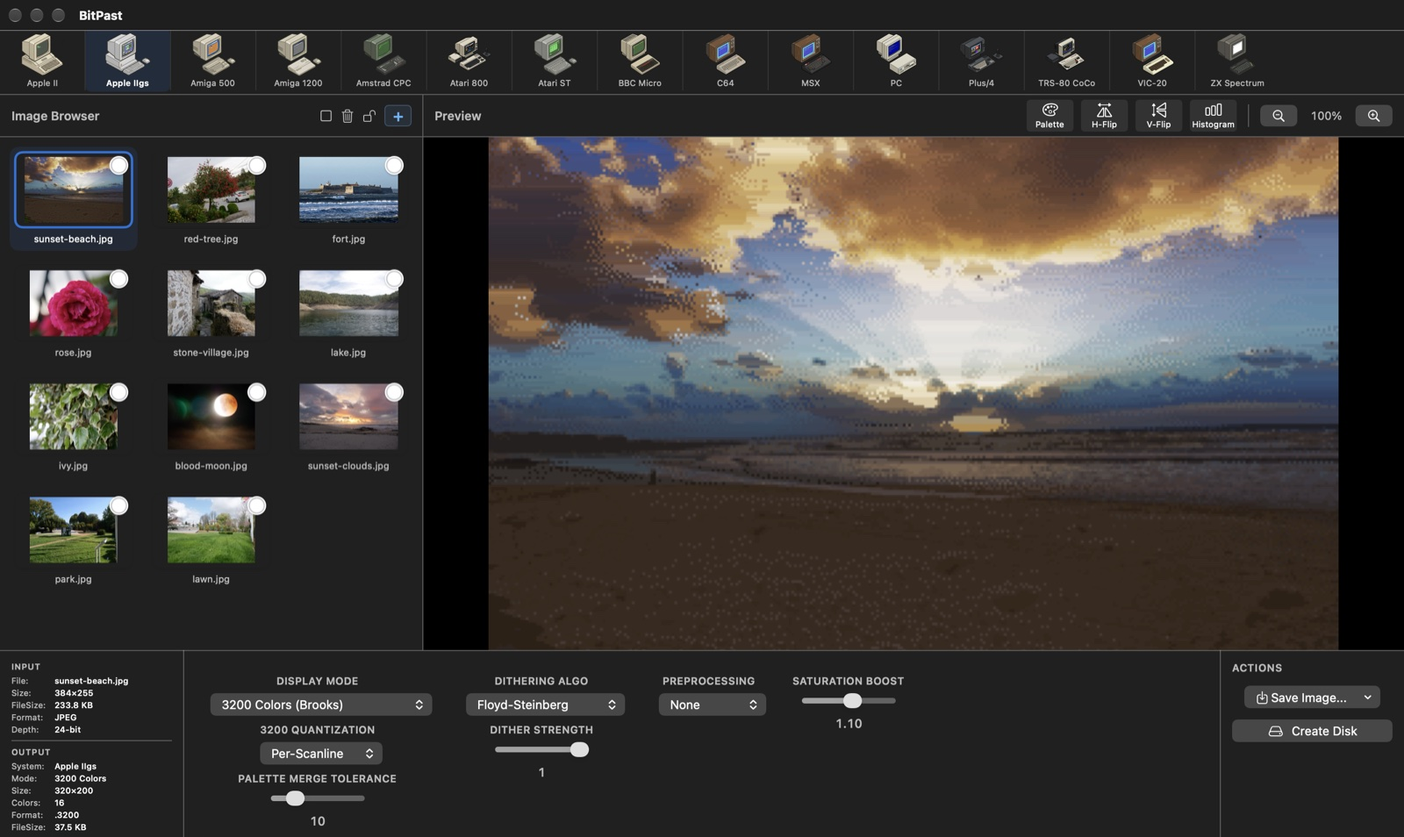
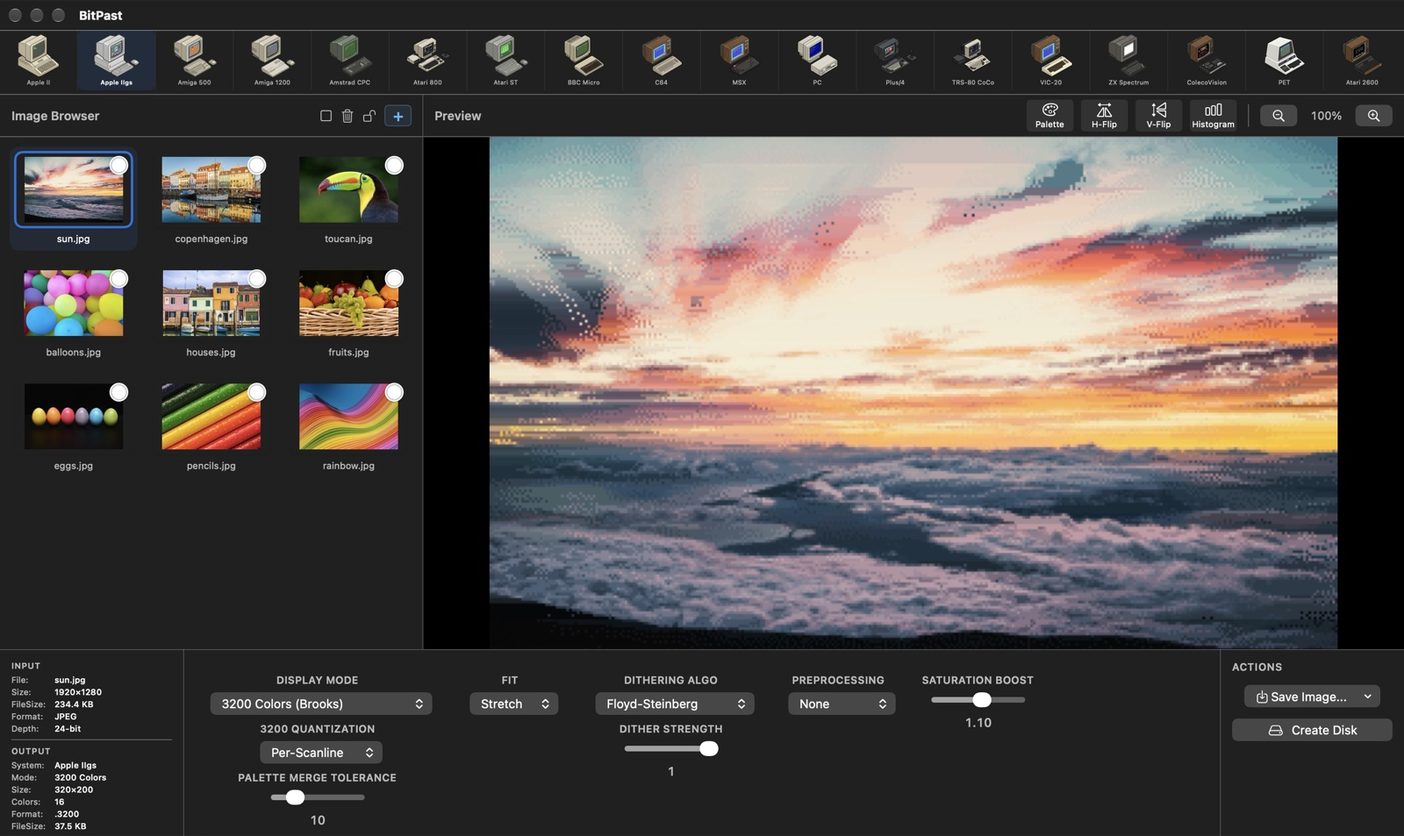
BitPast page: 4.7 screenshots, fixed grids, What's New moved
Screenshots now show BitPast 4.7 with all 18 systems; features sit in a
3x3 grid and the 18 machines in 3 rows of 6; What's New follows the
disk images section.

diff --git a/Bitpast/index.html b/Bitpast/index.html
@@ -217,7 +217,7 @@
         .terminal .group:first-child { margin-top: 0; }
 
         /* ---------- One photo, 15 machines ---------- */
-        .machines { display: grid; grid-template-columns: repeat(auto-fill, minmax(200px, 1fr)); gap: 22px; }
+        .machines { display: grid; grid-template-columns: repeat(6, 1fr); gap: 16px; }
         .machine { padding: 0; }
         .machine .tv { background: #000; padding: 10px; border-bottom: 4px solid var(--edge); }
         .machine img { width: 100%; aspect-ratio: 4 / 3; image-rendering: pixelated; }
@@ -238,7 +238,7 @@
         .shot.wide { grid-column: 1 / -1; }
 
         /* ---------- Features ---------- */
-        .grid { display: grid; grid-template-columns: repeat(auto-fit, minmax(260px, 1fr)); gap: 26px; }
+        .grid { display: grid; grid-template-columns: repeat(3, 1fr); gap: 26px; }
         .feature .panel-body p { color: var(--dim); }
         .icon { font-size: 2rem; margin-bottom: 8px; }
 
@@ -272,8 +272,13 @@
         .ready { font-family: var(--pixel); font-size: 0.65rem; color: var(--phosphor); margin: 24px 0 12px; }
         .legal { font-size: 1.05rem; max-width: 860px; margin: 18px auto 0; opacity: 0.75; }
 
+        @media (max-width: 1000px) {
+            .machines { grid-template-columns: repeat(3, 1fr); }
+            .grid { grid-template-columns: repeat(2, 1fr); }
+        }
         @media (max-width: 640px) {
             body { font-size: 1.3rem; }
+            .grid { grid-template-columns: 1fr; }
             .bezel { padding: 14px 14px 34px; border-radius: 16px; }
             .gallery, .formats { grid-template-columns: 1fr; }
             .machines { grid-template-columns: repeat(2, 1fr); gap: 14px; }
@@ -306,7 +311,7 @@
             <div class="monitor">
                 <div class="bezel">
                     <div class="screen">
-                        <img src="screens/main-window.jpg" alt="BitPast converting a beach sunset into a 3200-color Apple IIgs picture" width="1600" height="954">
+                        <img src="screens/main-window.jpg" alt="BitPast converting a sunset above the clouds into a 3200-color Apple IIgs picture" width="1600" height="953">
                     </div>
                     <div class="led"></div>
                 </div>
@@ -324,6 +329,159 @@
                 <div class="stat panel"><b>3200</b><span>colors on the Apple IIgs</span></div>
                 <div class="stat panel"><b>20+</b><span>native file formats</span></div>
                 <div class="stat panel"><b>11</b><span>disk image types</span></div>
+            </div>
+        </div>
+    </section>
+
+
+    <section class="alt" id="machines">
+        <div class="container">
+            <h2>One Photo, 18 Machines</h2>
+            <p class="lead">The same photo, converted with each machine's default settings - exactly as BitPast saves it, shown on a 4:3 screen like the original hardware.</p>
+            <div class="panel original">
+                <div class="panel-title">original.jpg<span class="bars"></span></div>
+                <div class="panel-body">
+                    <img src="screens/machines/original.jpg" alt="The original photo of a red rose" loading="lazy" width="640" height="480">
+                    <p>The original photo</p>
+                </div>
+            </div>
+            <div class="machines">
+                <figure class="machine panel"><div class="tv"><img src="screens/machines/appleii.jpg" alt="Rose on the Apple II" loading="lazy" width="640" height="480"></div><figcaption class="caption"><strong>Apple II</strong><span>Double Hi-Res, 16 colors</span></figcaption></figure>
+                <figure class="machine panel"><div class="tv"><img src="screens/machines/appleiigs.jpg" alt="Rose on the Apple IIgs" loading="lazy" width="640" height="480"></div><figcaption class="caption"><strong>Apple IIgs</strong><span>3200 colors, a palette per line</span></figcaption></figure>
+                <figure class="machine panel"><div class="tv"><img src="screens/machines/amiga500.jpg" alt="Rose on the Amiga 500" loading="lazy" width="640" height="480"></div><figcaption class="caption"><strong>Amiga 500</strong><span>32 of 4096 colors</span></figcaption></figure>
+                <figure class="machine panel"><div class="tv"><img src="screens/machines/amiga1200.jpg" alt="Rose on the Amiga 1200" loading="lazy" width="640" height="480"></div><figcaption class="caption"><strong>Amiga 1200</strong><span>256 colors (AGA)</span></figcaption></figure>
+                <figure class="machine panel"><div class="tv"><img src="screens/machines/amstradcpc.jpg" alt="Rose on the Amstrad CPC" loading="lazy" width="640" height="480"></div><figcaption class="caption"><strong>Amstrad CPC</strong><span>Mode 1, 4 of 27 colors</span></figcaption></figure>
+                <figure class="machine panel"><div class="tv"><img src="screens/machines/atari800.jpg" alt="Rose on the Atari 800" loading="lazy" width="640" height="480"></div><figcaption class="caption"><strong>Atari 800</strong><span>Graphics 15, 4 of 128 colors</span></figcaption></figure>
+                <figure class="machine panel"><div class="tv"><img src="screens/machines/atarist.jpg" alt="Rose on the Atari ST" loading="lazy" width="640" height="480"></div><figcaption class="caption"><strong>Atari ST</strong><span>Low Res, 16 of 512 colors</span></figcaption></figure>
+                <figure class="machine panel"><div class="tv"><img src="screens/machines/bbcmicro.jpg" alt="Rose on the BBC Micro" loading="lazy" width="640" height="480"></div><figcaption class="caption"><strong>BBC Micro</strong><span>Mode 2, 8 colors</span></figcaption></figure>
+                <figure class="machine panel"><div class="tv"><img src="screens/machines/c64.jpg" alt="Rose on the Commodore 64" loading="lazy" width="640" height="480"></div><figcaption class="caption"><strong>Commodore 64</strong><span>Multicolor, 16 colors</span></figcaption></figure>
+                <figure class="machine panel"><div class="tv"><img src="screens/machines/msx.jpg" alt="Rose on the MSX2" loading="lazy" width="640" height="480"></div><figcaption class="caption"><strong>MSX2</strong><span>Screen 5, 16 of 512 colors</span></figcaption></figure>
+                <figure class="machine panel"><div class="tv"><img src="screens/machines/pc.jpg" alt="Rose on the IBM PC" loading="lazy" width="640" height="480"></div><figcaption class="caption"><strong>IBM PC</strong><span>VGA, 256 colors</span></figcaption></figure>
+                <figure class="machine panel"><div class="tv"><img src="screens/machines/plus4.jpg" alt="Rose on the Commodore Plus/4" loading="lazy" width="640" height="480"></div><figcaption class="caption"><strong>Plus/4</strong><span>Hi-Res, 121-color TED palette</span></figcaption></figure>
+                <figure class="machine panel"><div class="tv"><img src="screens/machines/trs80coco.jpg" alt="Rose on the TRS-80 Color Computer" loading="lazy" width="640" height="480"></div><figcaption class="caption"><strong>TRS-80 CoCo</strong><span>PMODE 3, fixed 4-color set</span></figcaption></figure>
+                <figure class="machine panel"><div class="tv"><img src="screens/machines/vic20.jpg" alt="Rose on the VIC-20" loading="lazy" width="640" height="480"></div><figcaption class="caption"><strong>VIC-20</strong><span>Hi-Res, custom characters</span></figcaption></figure>
+                <figure class="machine panel"><div class="tv"><img src="screens/machines/zxspectrum.jpg" alt="Rose on the ZX Spectrum" loading="lazy" width="640" height="480"></div><figcaption class="caption"><strong>ZX Spectrum</strong><span>2 colors per 8x8 cell</span></figcaption></figure>
+                <figure class="machine panel"><div class="tv"><img src="screens/machines/colecovision.jpg" alt="Rose on the ColecoVision" loading="lazy" width="640" height="480"></div><figcaption class="caption"><strong>ColecoVision</strong><span>2 colors per 8x1 stretch, 16 colors</span></figcaption></figure>
+                <figure class="machine panel"><div class="tv"><img src="screens/machines/pet.jpg" alt="Rose on the Commodore PET" loading="lazy" width="640" height="480"></div><figcaption class="caption"><strong>Commodore PET</strong><span>40 columns, Atkinson dither</span></figcaption></figure>
+                <figure class="machine panel"><div class="tv"><img src="screens/machines/atari2600.jpg" alt="Rose on the Atari 2600" loading="lazy" width="640" height="480"></div><figcaption class="caption"><strong>Atari 2600</strong><span>2 of 128 colors per line</span></figcaption></figure>
+            </div>
+        </div>
+    </section>
+
+    <section id="screenshots">
+        <div class="container">
+            <h2>Screenshots</h2>
+            <p class="lead">Drop in your pictures, pick a machine, tune the look - and pick a theme that matches.</p>
+            <div class="gallery">
+                <figure class="shot panel wide">
+                    <div class="panel-title">gs_os_theme<span class="bars"></span></div>
+                    <a href="screens/theme-gsos.jpg"><img src="screens/theme-gsos.jpg" alt="BitPast in the GS/OS theme converting a fruit basket to Apple IIgs 3200 colors" loading="lazy" width="1600" height="953"></a>
+                    <figcaption class="caption"><strong>Apple IIgs in the GS/OS theme</strong><span>Near-photographic 3200-color pictures, with a 16-color palette on every one of the 200 lines.</span></figcaption>
+                </figure>
+                <figure class="shot panel">
+                    <div class="panel-title">green_phosphor<span class="bars"></span></div>
+                    <a href="screens/theme-apple2.jpg"><img src="screens/theme-apple2.jpg" alt="BitPast in the Apple II green phosphor theme with a Double Hi-Res conversion of balloons" loading="lazy" width="1600" height="953"></a>
+                    <figcaption class="caption"><strong>Apple II green phosphor</strong><span>Double Hi-Res with b2d dithering and authentic NTSC palettes.</span></figcaption>
+                </figure>
+                <figure class="shot panel">
+                    <div class="panel-title">commodore_blue<span class="bars"></span></div>
+                    <a href="screens/theme-c64.jpg"><img src="screens/theme-c64.jpg" alt="BitPast in the Commodore 64 theme with a Multicolor conversion of a toucan" loading="lazy" width="1600" height="953"></a>
+                    <figcaption class="caption"><strong>Commodore 64 blue</strong><span>Multicolor and Hi-Res, saved as Koala Painter or Art Studio files.</span></figcaption>
+                </figure>
+                <figure class="shot panel wide">
+                    <div class="panel-title">amiga_1200<span class="bars"></span></div>
+                    <a href="screens/amiga.jpg"><img src="screens/amiga.jpg" alt="BitPast converting colourful canal houses to 256 Amiga AGA colors" loading="lazy" width="1600" height="953"></a>
+                    <figcaption class="caption"><strong>Amiga 1200, 256 colors</strong><span>Standard, HAM6 and HAM8 modes, saved as IFF/ILBM - with dithering, contrast, filters, saturation and gamma.</span></figcaption>
+                </figure>
+                <figure class="shot panel">
+                    <div class="panel-title">palette_editor<span class="bars"></span></div>
+                    <a href="screens/palette-editor.jpg"><img src="screens/palette-editor.jpg" alt="Palette editor showing the line palettes of a 3200-color picture" loading="lazy" width="1520" height="1304"></a>
+                    <figcaption class="caption"><strong>Palette editor</strong><span>Fine-tune every line palette of a 3200-color picture, with undo and redo.</span></figcaption>
+                </figure>
+                <figure class="shot panel">
+                    <div class="panel-title">create_disk<span class="bars"></span></div>
+                    <a href="screens/create-disk.jpg"><img src="screens/create-disk.jpg" alt="Create Disk Image window with an Amiga ADF disk selected" loading="lazy" width="1600" height="981"></a>
+                    <figcaption class="caption"><strong>Disk images for every computer</strong><span>Put all your converted pictures on a disk image, ready for an emulator or real hardware. The consoles get cartridges.</span></figcaption>
+                </figure>
+            </div>
+        </div>
+    </section>
+
+    <section class="alt" id="features">
+        <div class="container">
+            <h2>Features</h2>
+            <p class="lead">Everything you need to create authentic retro graphics.</p>
+            <div class="grid">
+                <div class="feature panel"><div class="panel-body"><div class="icon">🖥</div><h3>18 Classic Machines</h3><p>Apple II and IIgs, Amiga 500 and 1200, Amstrad CPC, Atari 800, ST and 2600, BBC Micro, C64, ColecoVision, MSX, IBM PC, PET, Plus/4, TRS-80 CoCo, VIC-20 and ZX Spectrum.</p></div></div>
+                <div class="feature panel"><div class="panel-body"><div class="icon">🌈</div><h3>Real Palettes and Modes</h3><p>Each machine's own colors, resolutions and limits - from Apple IIgs 3200 colors and Amiga HAM to Spectrum attribute cells and C64 multicolor.</p></div></div>
+                <div class="feature panel"><div class="panel-body"><div class="icon">🎯</div><h3>Smart Color Selection</h3><p>Colors are chosen to cover the whole picture, so small details keep their color even when a machine can only show a handful.</p></div></div>
+                <div class="feature panel"><div class="panel-body"><div class="icon">🖼</div><h3>Fit and Aspect</h3><p>Stretch, letterbox, crop or keep the original size - and allow for each machine's non-square pixels so circles stay round.</p></div></div>
+                <div class="feature panel"><div class="panel-body"><div class="icon">⚙</div><h3>Fine-Tuning</h3><p>15+ dithering algorithms, HE, CLAHE and SWAHE contrast, filters, color matching modes, saturation and gamma - with live preview.</p></div></div>
+                <div class="feature panel"><div class="panel-body"><div class="icon">💾</div><h3>Native Files and Disks</h3><p>Save .SHR, .3200, .IFF, .PI1, .KLA, .ART, .PRG, .SCR, .PCX, .SC5 and more, make cartridges for the ColecoVision and Atari 2600, and put pictures on disk images for the computers.</p></div></div>
+                <div class="feature panel"><div class="panel-body"><div class="icon">🎨</div><h3>Palette Editor</h3><p>Edit the palettes of Apple IIgs pictures line by line, copy and paste palettes, with full undo and redo. Your changes go into the saved file.</p></div></div>
+                <div class="feature panel"><div class="panel-body"><div class="icon">📦</div><h3>Batch Conversion</h3><p>Drag in many pictures at once, lock settings per picture, and export them all - or straight onto a disk.</p></div></div>
+                <div class="feature panel"><div class="panel-body"><div class="icon">📺</div><h3>Retro Themes</h3><p>Work in the GS/OS look, Apple II green phosphor or Commodore 64 blue - or a clean modern interface.</p></div></div>
+            </div>
+        </div>
+    </section>
+
+    <section id="systems">
+        <div class="container">
+            <h2>Supported Systems</h2>
+            <p class="lead">Modes and native file formats for every machine.</p>
+            <div class="formats">
+                <div class="platform panel"><div class="panel-title">apple ii / iigs<span class="bars"></span></div><div class="panel-body"><ul>
+                    <li><b>Apple II:</b> Double Hi-Res, Hi-Res, Lo-Res and Double Lo-Res (.BIN)</li>
+                    <li><b>Apple IIgs:</b> 3200 colors, 256 colors with Banded or Per-Line palettes, 320 and 640 modes (.SHR, .3200)</li>
+                </ul></div></div>
+                <div class="platform panel"><div class="panel-title">commodore<span class="bars"></span></div><div class="panel-body"><ul>
+                    <li><b>C64:</b> Hi-Res, Multicolor and PETSCII (.ART, .KLA, .PRG)</li>
+                    <li><b>VIC-20:</b> Hi-Res and Low-Res (.PRG)</li>
+                    <li><b>Plus/4:</b> Hi-Res and Multicolor (.PRG)</li>
+                    <li><b>PET:</b> 40 and 80 columns of block graphics (.PRG)</li>
+                </ul></div></div>
+                <div class="platform panel"><div class="panel-title">amiga<span class="bars"></span></div><div class="panel-body"><ul>
+                    <li><b>Amiga 500:</b> OCS/ECS up to 32 colors and HAM6 (.IFF)</li>
+                    <li><b>Amiga 1200:</b> AGA 256 colors and HAM8 (.IFF)</li>
+                </ul></div></div>
+                <div class="platform panel"><div class="panel-title">atari<span class="bars"></span></div><div class="panel-body"><ul>
+                    <li><b>Atari 800:</b> Graphics 8, 9, 10, 11 and 15 (.GR8 to .GR15)</li>
+                    <li><b>Atari ST:</b> 16 of 512 colors, Low and High Res (.PI1 Degas)</li>
+                    <li><b>Atari 2600:</b> 40x192 playfield, 2 of 128 colors per line (.BIN cartridge)</li>
+                </ul></div></div>
+                <div class="platform panel"><div class="panel-title">british micros<span class="bars"></span></div><div class="panel-body"><ul>
+                    <li><b>ZX Spectrum:</b> 256x192 with attribute cells (.SCR)</li>
+                    <li><b>BBC Micro:</b> Modes 0, 1, 2, 4 and 5</li>
+                    <li><b>Amstrad CPC:</b> Mode 0 and Mode 1 (.SCR)</li>
+                </ul></div></div>
+                <div class="platform panel"><div class="panel-title">pc / msx / coco / coleco<span class="bars"></span></div><div class="panel-body"><ul>
+                    <li><b>IBM PC:</b> CGA, EGA, VGA and ANSI text modes (.PCX, .ANS)</li>
+                    <li><b>MSX / MSX2:</b> Screen 2, 5 and 8 (.SC2, .SC5, .SC8)</li>
+                    <li><b>TRS-80 CoCo:</b> PMODE 1-4 and CoCo 3 (.BIN, .CM3)</li>
+                    <li><b>ColecoVision:</b> 256x192, 16 colors (.COL cartridge)</li>
+                </ul></div></div>
+            </div>
+
+            <h2 style="margin-top: 70px;">Disk Images</h2>
+            <p class="lead">Create disk images for every supported computer. The ColecoVision and Atari 2600 pictures are cartridges, so they need no disk.</p>
+            <div class="panel table-wrap">
+                <div class="panel-title">disk_formats<span class="bars"></span></div>
+                <div class="panel-body">
+                    <table>
+                        <tr><th>Extension</th><th>Machine</th><th>Sizes</th></tr>
+                        <tr><td>.po .2mg .hdv</td><td>Apple II / IIgs (ProDOS)</td><td>140 KB, 800 KB, 32 MB</td></tr>
+                        <tr><td>.d64 .d71 .d81</td><td>C64, VIC-20, Plus/4, PET (.d64 only)</td><td>170 KB, 340 KB, 800 KB</td></tr>
+                        <tr><td>.adf</td><td>Amiga 500 / 1200</td><td>880 KB, 1.76 MB</td></tr>
+                        <tr><td>.atr</td><td>Atari 800 (DOS 2 / 2.5)</td><td>90 KB, 130 KB, 180 KB, 360 KB</td></tr>
+                        <tr><td>.st</td><td>Atari ST</td><td>360 KB, 720 KB, 1.44 MB</td></tr>
+                        <tr><td>.ssd .dsd</td><td>BBC Micro (DFS)</td><td>100 KB, 200 KB, 400 KB</td></tr>
+                        <tr><td>.dsk</td><td>MSX</td><td>360 KB, 720 KB</td></tr>
+                        <tr><td>.dsk</td><td>Amstrad CPC</td><td>180 KB, 360 KB</td></tr>
+                        <tr><td>.trd .dsk</td><td>ZX Spectrum (TR-DOS, +3)</td><td>640 KB, 180 KB</td></tr>
+                        <tr><td>.img</td><td>IBM PC</td><td>360 KB, 720 KB, 1.2 MB, 1.44 MB</td></tr>
+                        <tr><td>.dsk</td><td>TRS-80 CoCo (RS-DOS)</td><td>180 KB, 360 KB</td></tr>
+                    </table>
+                </div>
             </div>
         </div>
     </section>
@@ -387,158 +545,6 @@
                         <li>A progress indicator shows while a new picture is calculated</li>
                         <li>Much faster PC 256-color conversion</li>
                     </ul>
-                </div>
-            </div>
-        </div>
-    </section>
-
-    <section id="machines">
-        <div class="container">
-            <h2>One Photo, 18 Machines</h2>
-            <p class="lead">The same photo, converted with each machine's default settings - exactly as BitPast saves it, shown on a 4:3 screen like the original hardware.</p>
-            <div class="panel original">
-                <div class="panel-title">original.jpg<span class="bars"></span></div>
-                <div class="panel-body">
-                    <img src="screens/machines/original.jpg" alt="The original photo of a red rose" loading="lazy" width="640" height="480">
-                    <p>The original photo</p>
-                </div>
-            </div>
-            <div class="machines">
-                <figure class="machine panel"><div class="tv"><img src="screens/machines/appleii.jpg" alt="Rose on the Apple II" loading="lazy" width="640" height="480"></div><figcaption class="caption"><strong>Apple II</strong><span>Double Hi-Res, 16 colors</span></figcaption></figure>
-                <figure class="machine panel"><div class="tv"><img src="screens/machines/appleiigs.jpg" alt="Rose on the Apple IIgs" loading="lazy" width="640" height="480"></div><figcaption class="caption"><strong>Apple IIgs</strong><span>3200 colors, a palette per line</span></figcaption></figure>
-                <figure class="machine panel"><div class="tv"><img src="screens/machines/amiga500.jpg" alt="Rose on the Amiga 500" loading="lazy" width="640" height="480"></div><figcaption class="caption"><strong>Amiga 500</strong><span>32 of 4096 colors</span></figcaption></figure>
-                <figure class="machine panel"><div class="tv"><img src="screens/machines/amiga1200.jpg" alt="Rose on the Amiga 1200" loading="lazy" width="640" height="480"></div><figcaption class="caption"><strong>Amiga 1200</strong><span>256 colors (AGA)</span></figcaption></figure>
-                <figure class="machine panel"><div class="tv"><img src="screens/machines/amstradcpc.jpg" alt="Rose on the Amstrad CPC" loading="lazy" width="640" height="480"></div><figcaption class="caption"><strong>Amstrad CPC</strong><span>Mode 1, 4 of 27 colors</span></figcaption></figure>
-                <figure class="machine panel"><div class="tv"><img src="screens/machines/atari800.jpg" alt="Rose on the Atari 800" loading="lazy" width="640" height="480"></div><figcaption class="caption"><strong>Atari 800</strong><span>Graphics 15, 4 of 128 colors</span></figcaption></figure>
-                <figure class="machine panel"><div class="tv"><img src="screens/machines/atarist.jpg" alt="Rose on the Atari ST" loading="lazy" width="640" height="480"></div><figcaption class="caption"><strong>Atari ST</strong><span>Low Res, 16 of 512 colors</span></figcaption></figure>
-                <figure class="machine panel"><div class="tv"><img src="screens/machines/bbcmicro.jpg" alt="Rose on the BBC Micro" loading="lazy" width="640" height="480"></div><figcaption class="caption"><strong>BBC Micro</strong><span>Mode 2, 8 colors</span></figcaption></figure>
-                <figure class="machine panel"><div class="tv"><img src="screens/machines/c64.jpg" alt="Rose on the Commodore 64" loading="lazy" width="640" height="480"></div><figcaption class="caption"><strong>Commodore 64</strong><span>Multicolor, 16 colors</span></figcaption></figure>
-                <figure class="machine panel"><div class="tv"><img src="screens/machines/msx.jpg" alt="Rose on the MSX2" loading="lazy" width="640" height="480"></div><figcaption class="caption"><strong>MSX2</strong><span>Screen 5, 16 of 512 colors</span></figcaption></figure>
-                <figure class="machine panel"><div class="tv"><img src="screens/machines/pc.jpg" alt="Rose on the IBM PC" loading="lazy" width="640" height="480"></div><figcaption class="caption"><strong>IBM PC</strong><span>VGA, 256 colors</span></figcaption></figure>
-                <figure class="machine panel"><div class="tv"><img src="screens/machines/plus4.jpg" alt="Rose on the Commodore Plus/4" loading="lazy" width="640" height="480"></div><figcaption class="caption"><strong>Plus/4</strong><span>Hi-Res, 121-color TED palette</span></figcaption></figure>
-                <figure class="machine panel"><div class="tv"><img src="screens/machines/trs80coco.jpg" alt="Rose on the TRS-80 Color Computer" loading="lazy" width="640" height="480"></div><figcaption class="caption"><strong>TRS-80 CoCo</strong><span>PMODE 3, fixed 4-color set</span></figcaption></figure>
-                <figure class="machine panel"><div class="tv"><img src="screens/machines/vic20.jpg" alt="Rose on the VIC-20" loading="lazy" width="640" height="480"></div><figcaption class="caption"><strong>VIC-20</strong><span>Hi-Res, custom characters</span></figcaption></figure>
-                <figure class="machine panel"><div class="tv"><img src="screens/machines/zxspectrum.jpg" alt="Rose on the ZX Spectrum" loading="lazy" width="640" height="480"></div><figcaption class="caption"><strong>ZX Spectrum</strong><span>2 colors per 8x8 cell</span></figcaption></figure>
-                <figure class="machine panel"><div class="tv"><img src="screens/machines/colecovision.jpg" alt="Rose on the ColecoVision" loading="lazy" width="640" height="480"></div><figcaption class="caption"><strong>ColecoVision</strong><span>2 colors per 8x1 stretch, 16 colors</span></figcaption></figure>
-                <figure class="machine panel"><div class="tv"><img src="screens/machines/pet.jpg" alt="Rose on the Commodore PET" loading="lazy" width="640" height="480"></div><figcaption class="caption"><strong>Commodore PET</strong><span>40 columns, Atkinson dither</span></figcaption></figure>
-                <figure class="machine panel"><div class="tv"><img src="screens/machines/atari2600.jpg" alt="Rose on the Atari 2600" loading="lazy" width="640" height="480"></div><figcaption class="caption"><strong>Atari 2600</strong><span>2 of 128 colors per line</span></figcaption></figure>
-            </div>
-        </div>
-    </section>
-
-    <section class="alt" id="screenshots">
-        <div class="container">
-            <h2>Screenshots</h2>
-            <p class="lead">Drop in your pictures, pick a machine, tune the look - and pick a theme that matches.</p>
-            <div class="gallery">
-                <figure class="shot panel wide">
-                    <div class="panel-title">gs_os_theme<span class="bars"></span></div>
-                    <a href="screens/theme-gsos.jpg"><img src="screens/theme-gsos.jpg" alt="BitPast in the GS/OS theme converting a rose to Apple IIgs 3200 colors" loading="lazy" width="1600" height="954"></a>
-                    <figcaption class="caption"><strong>Apple IIgs in the GS/OS theme</strong><span>Near-photographic 3200-color pictures, with a 16-color palette on every one of the 200 lines.</span></figcaption>
-                </figure>
-                <figure class="shot panel">
-                    <div class="panel-title">green_phosphor<span class="bars"></span></div>
-                    <a href="screens/theme-apple2.jpg"><img src="screens/theme-apple2.jpg" alt="BitPast in the Apple II green phosphor theme with a Double Hi-Res conversion" loading="lazy" width="1600" height="954"></a>
-                    <figcaption class="caption"><strong>Apple II green phosphor</strong><span>Double Hi-Res with b2d dithering and authentic NTSC palettes.</span></figcaption>
-                </figure>
-                <figure class="shot panel">
-                    <div class="panel-title">commodore_blue<span class="bars"></span></div>
-                    <a href="screens/theme-c64.jpg"><img src="screens/theme-c64.jpg" alt="BitPast in the Commodore 64 theme with a Multicolor conversion of a fort by the sea" loading="lazy" width="1600" height="954"></a>
-                    <figcaption class="caption"><strong>Commodore 64 blue</strong><span>Multicolor and Hi-Res, saved as Koala Painter or Art Studio files.</span></figcaption>
-                </figure>
-                <figure class="shot panel wide">
-                    <div class="panel-title">amiga_1200<span class="bars"></span></div>
-                    <a href="screens/amiga.jpg"><img src="screens/amiga.jpg" alt="BitPast converting a red flowering tree to 256 Amiga AGA colors" loading="lazy" width="1600" height="954"></a>
-                    <figcaption class="caption"><strong>Amiga 1200, 256 colors</strong><span>Standard, HAM6 and HAM8 modes, saved as IFF/ILBM - with dithering, contrast, filters, saturation and gamma.</span></figcaption>
-                </figure>
-                <figure class="shot panel">
-                    <div class="panel-title">palette_editor<span class="bars"></span></div>
-                    <a href="screens/palette-editor.jpg"><img src="screens/palette-editor.jpg" alt="Palette editor showing the line palettes of a 3200-color picture" loading="lazy" width="1520" height="1304"></a>
-                    <figcaption class="caption"><strong>Palette editor</strong><span>Fine-tune every line palette of a 3200-color picture, with undo and redo.</span></figcaption>
-                </figure>
-                <figure class="shot panel">
-                    <div class="panel-title">create_disk<span class="bars"></span></div>
-                    <a href="screens/create-disk.jpg"><img src="screens/create-disk.jpg" alt="Create Disk Image window with an Amiga ADF disk selected" loading="lazy" width="1600" height="981"></a>
-                    <figcaption class="caption"><strong>Disk images for every machine</strong><span>Put all your converted pictures on a disk image, ready for an emulator or real hardware.</span></figcaption>
-                </figure>
-            </div>
-        </div>
-    </section>
-
-    <section id="features">
-        <div class="container">
-            <h2>Features</h2>
-            <p class="lead">Everything you need to create authentic retro graphics.</p>
-            <div class="grid">
-                <div class="feature panel"><div class="panel-body"><div class="icon">🖥</div><h3>18 Classic Machines</h3><p>Apple II and IIgs, Amiga 500 and 1200, Amstrad CPC, Atari 800, ST and 2600, BBC Micro, C64, ColecoVision, MSX, IBM PC, PET, Plus/4, TRS-80 CoCo, VIC-20 and ZX Spectrum.</p></div></div>
-                <div class="feature panel"><div class="panel-body"><div class="icon">🌈</div><h3>Real Palettes and Modes</h3><p>Each machine's own colors, resolutions and limits - from Apple IIgs 3200 colors and Amiga HAM to Spectrum attribute cells and C64 multicolor.</p></div></div>
-                <div class="feature panel"><div class="panel-body"><div class="icon">🎯</div><h3>Smart Color Selection</h3><p>Colors are chosen to cover the whole picture, so small details keep their color even when a machine can only show a handful.</p></div></div>
-                <div class="feature panel"><div class="panel-body"><div class="icon">🖼</div><h3>Fit and Aspect</h3><p>Stretch, letterbox, crop or keep the original size - and allow for each machine's non-square pixels so circles stay round.</p></div></div>
-                <div class="feature panel"><div class="panel-body"><div class="icon">⚙</div><h3>Fine-Tuning</h3><p>15+ dithering algorithms, HE, CLAHE and SWAHE contrast, filters, color matching modes, saturation and gamma - with live preview.</p></div></div>
-                <div class="feature panel"><div class="panel-body"><div class="icon">💾</div><h3>Native Files and Disks</h3><p>Save .SHR, .3200, .IFF, .PI1, .KLA, .ART, .PRG, .SCR, .PCX, .SC5 and more, make cartridges for the ColecoVision and Atari 2600, and put pictures on disk images for the computers.</p></div></div>
-                <div class="feature panel"><div class="panel-body"><div class="icon">🎨</div><h3>Palette Editor</h3><p>Edit the palettes of Apple IIgs pictures line by line, copy and paste palettes, with full undo and redo. Your changes go into the saved file.</p></div></div>
-                <div class="feature panel"><div class="panel-body"><div class="icon">📦</div><h3>Batch Conversion</h3><p>Drag in many pictures at once, lock settings per picture, and export them all - or straight onto a disk.</p></div></div>
-                <div class="feature panel"><div class="panel-body"><div class="icon">📺</div><h3>Retro Themes</h3><p>Work in the GS/OS look, Apple II green phosphor or Commodore 64 blue - or a clean modern interface.</p></div></div>
-            </div>
-        </div>
-    </section>
-
-    <section class="alt" id="systems">
-        <div class="container">
-            <h2>Supported Systems</h2>
-            <p class="lead">Modes and native file formats for every machine.</p>
-            <div class="formats">
-                <div class="platform panel"><div class="panel-title">apple ii / iigs<span class="bars"></span></div><div class="panel-body"><ul>
-                    <li><b>Apple II:</b> Double Hi-Res, Hi-Res, Lo-Res and Double Lo-Res (.BIN)</li>
-                    <li><b>Apple IIgs:</b> 3200 colors, 256 colors with Banded or Per-Line palettes, 320 and 640 modes (.SHR, .3200)</li>
-                </ul></div></div>
-                <div class="platform panel"><div class="panel-title">commodore<span class="bars"></span></div><div class="panel-body"><ul>
-                    <li><b>C64:</b> Hi-Res, Multicolor and PETSCII (.ART, .KLA, .PRG)</li>
-                    <li><b>VIC-20:</b> Hi-Res and Low-Res (.PRG)</li>
-                    <li><b>Plus/4:</b> Hi-Res and Multicolor (.PRG)</li>
-                    <li><b>PET:</b> 40 and 80 columns of block graphics (.PRG)</li>
-                </ul></div></div>
-                <div class="platform panel"><div class="panel-title">amiga<span class="bars"></span></div><div class="panel-body"><ul>
-                    <li><b>Amiga 500:</b> OCS/ECS up to 32 colors and HAM6 (.IFF)</li>
-                    <li><b>Amiga 1200:</b> AGA 256 colors and HAM8 (.IFF)</li>
-                </ul></div></div>
-                <div class="platform panel"><div class="panel-title">atari<span class="bars"></span></div><div class="panel-body"><ul>
-                    <li><b>Atari 800:</b> Graphics 8, 9, 10, 11 and 15 (.GR8 to .GR15)</li>
-                    <li><b>Atari ST:</b> 16 of 512 colors, Low and High Res (.PI1 Degas)</li>
-                    <li><b>Atari 2600:</b> 40x192 playfield, 2 of 128 colors per line (.BIN cartridge)</li>
-                </ul></div></div>
-                <div class="platform panel"><div class="panel-title">british micros<span class="bars"></span></div><div class="panel-body"><ul>
-                    <li><b>ZX Spectrum:</b> 256x192 with attribute cells (.SCR)</li>
-                    <li><b>BBC Micro:</b> Modes 0, 1, 2, 4 and 5</li>
-                    <li><b>Amstrad CPC:</b> Mode 0 and Mode 1 (.SCR)</li>
-                </ul></div></div>
-                <div class="platform panel"><div class="panel-title">pc / msx / coco / coleco<span class="bars"></span></div><div class="panel-body"><ul>
-                    <li><b>IBM PC:</b> CGA, EGA, VGA and ANSI text modes (.PCX, .ANS)</li>
-                    <li><b>MSX / MSX2:</b> Screen 2, 5 and 8 (.SC2, .SC5, .SC8)</li>
-                    <li><b>TRS-80 CoCo:</b> PMODE 1-4 and CoCo 3 (.BIN, .CM3)</li>
-                    <li><b>ColecoVision:</b> 256x192, 16 colors (.COL cartridge)</li>
-                </ul></div></div>
-            </div>
-
-            <h2 style="margin-top: 70px;">Disk Images</h2>
-            <p class="lead">Create disk images for every supported computer. The ColecoVision and Atari 2600 pictures are cartridges, so they need no disk.</p>
-            <div class="panel table-wrap">
-                <div class="panel-title">disk_formats<span class="bars"></span></div>
-                <div class="panel-body">
-                    <table>
-                        <tr><th>Extension</th><th>Machine</th><th>Sizes</th></tr>
-                        <tr><td>.po .2mg .hdv</td><td>Apple II / IIgs (ProDOS)</td><td>140 KB, 800 KB, 32 MB</td></tr>
-                        <tr><td>.d64 .d71 .d81</td><td>C64, VIC-20, Plus/4, PET (.d64 only)</td><td>170 KB, 340 KB, 800 KB</td></tr>
-                        <tr><td>.adf</td><td>Amiga 500 / 1200</td><td>880 KB, 1.76 MB</td></tr>
-                        <tr><td>.atr</td><td>Atari 800 (DOS 2 / 2.5)</td><td>90 KB, 130 KB, 180 KB, 360 KB</td></tr>
-                        <tr><td>.st</td><td>Atari ST</td><td>360 KB, 720 KB, 1.44 MB</td></tr>
-                        <tr><td>.ssd .dsd</td><td>BBC Micro (DFS)</td><td>100 KB, 200 KB, 400 KB</td></tr>
-                        <tr><td>.dsk</td><td>MSX</td><td>360 KB, 720 KB</td></tr>
-                        <tr><td>.dsk</td><td>Amstrad CPC</td><td>180 KB, 360 KB</td></tr>
-                        <tr><td>.trd .dsk</td><td>ZX Spectrum (TR-DOS, +3)</td><td>640 KB, 180 KB</td></tr>
-                        <tr><td>.img</td><td>IBM PC</td><td>360 KB, 720 KB, 1.2 MB, 1.44 MB</td></tr>
-                        <tr><td>.dsk</td><td>TRS-80 CoCo (RS-DOS)</td><td>180 KB, 360 KB</td></tr>
-                    </table>
                 </div>
             </div>
         </div>
